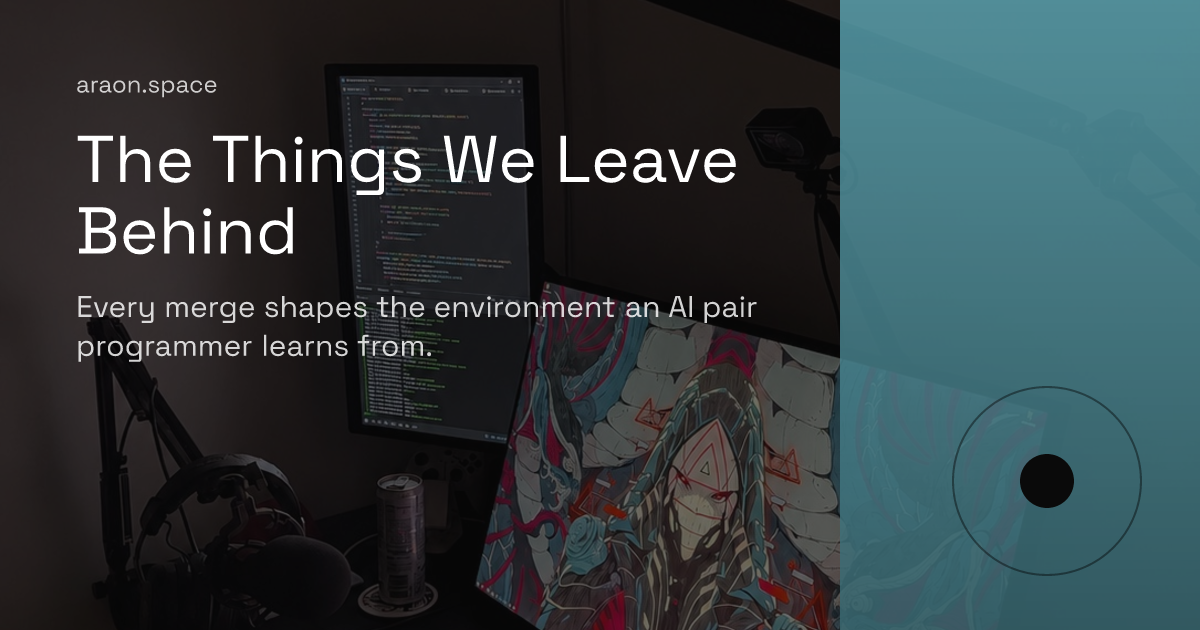
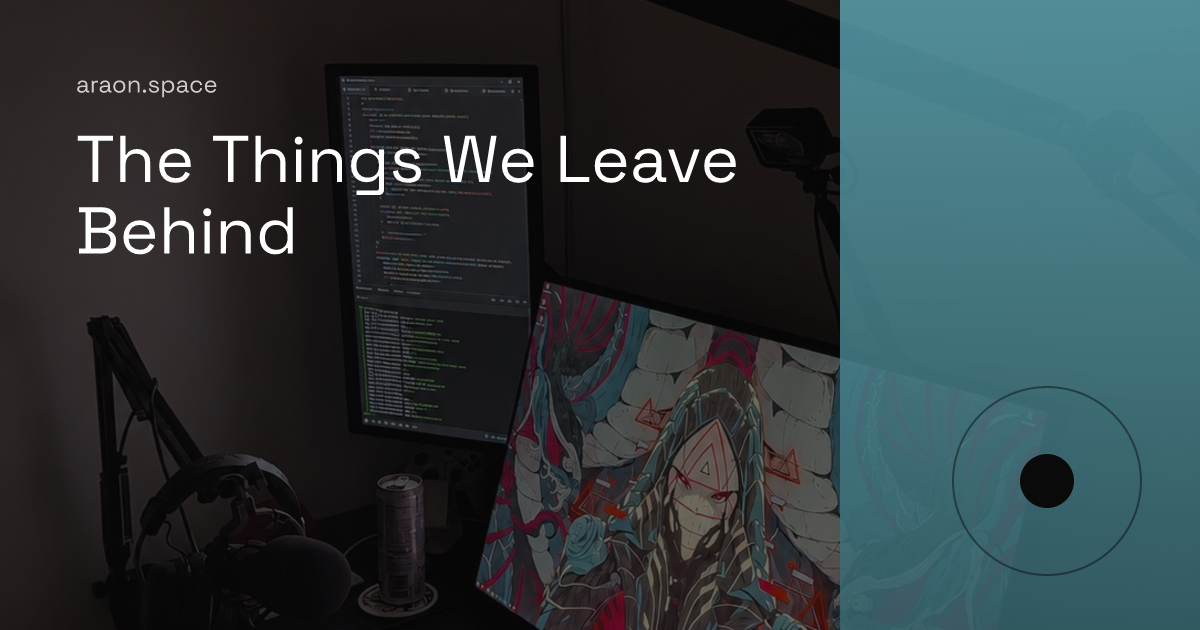
Hide optional blog subtitles

Changed region(s): [[0.0617, 0.4524, 0.6475, 0.5127], [0.0617, 0.5429, 0.37, 0.573]]

diff --git a/app/blog/[slug]/page.tsx b/app/blog/[slug]/page.tsx
@@ -135,9 +135,11 @@ export default async function Post({ params }: { params: any }) {
             <h1 className="text-3xl font-bold leading-tight tracking-tight text-primary">
               {post.title}
             </h1>
-            <p className="text-lg leading-tight text-secondary md:text-xl">
-              {post.summary}
-            </p>
+            {!post.hideSummary && (
+              <p className="text-lg leading-tight text-secondary md:text-xl">
+                {post.summary}
+              </p>
+            )}
           </div>
 
           <div className="flex max-w-none items-center gap-4">
@@ -207,7 +209,9 @@ export default async function Post({ params }: { params: any }) {
                   className="group rounded-lg border border-secondary p-4 transition-colors hover:border-primary"
                 >
                   <p className="font-medium text-primary group-hover:underline">{relatedPost.title}</p>
-                  <p className="mt-1 text-sm text-tertiary">{relatedPost.summary}</p>
+                  {!relatedPost.hideSummary && (
+                    <p className="mt-1 text-sm text-tertiary">{relatedPost.summary}</p>
+                  )}
                 </Link>
               ))}
             </div>

diff --git a/app/blog/components/ui/BlogPost.tsx b/app/blog/components/ui/BlogPost.tsx
@@ -91,7 +91,7 @@ export default function BlogPost({ post }: BlogPostProps) {
                     </motion.span>
                   )}
                 </h3>
-                {summary && (
+                {!post.hideSummary && summary && (
                   <p className="text-secondary text-sm leading-relaxed line-clamp-2 mt-1">
                     {summary}
                   </p>

diff --git a/app/blog/components/ui/FeaturedPost.tsx b/app/blog/components/ui/FeaturedPost.tsx
@@ -81,7 +81,7 @@ export default function FeaturedPost({ post }: FeaturedPostProps) {
           </h1>
           
           {/* Summary */}
-          {summary && (
+          {!post.hideSummary && summary && (
             <p className="text-lg leading-relaxed text-secondary line-clamp-3">
               {summary}
             </p>

diff --git a/contentlayer.config.ts b/contentlayer.config.ts
@@ -48,6 +48,7 @@ export const Post = defineDocumentType(() => ({
   fields: {
     title: { type: "string", required: true },
     summary: { type: "string", required: true },
+    hideSummary: { type: "boolean", required: false, default: false },
     publishedAt: { type: "string", required: true },
     updatedAt: { type: "string", required: false },
     tags: { type: "json", required: false },